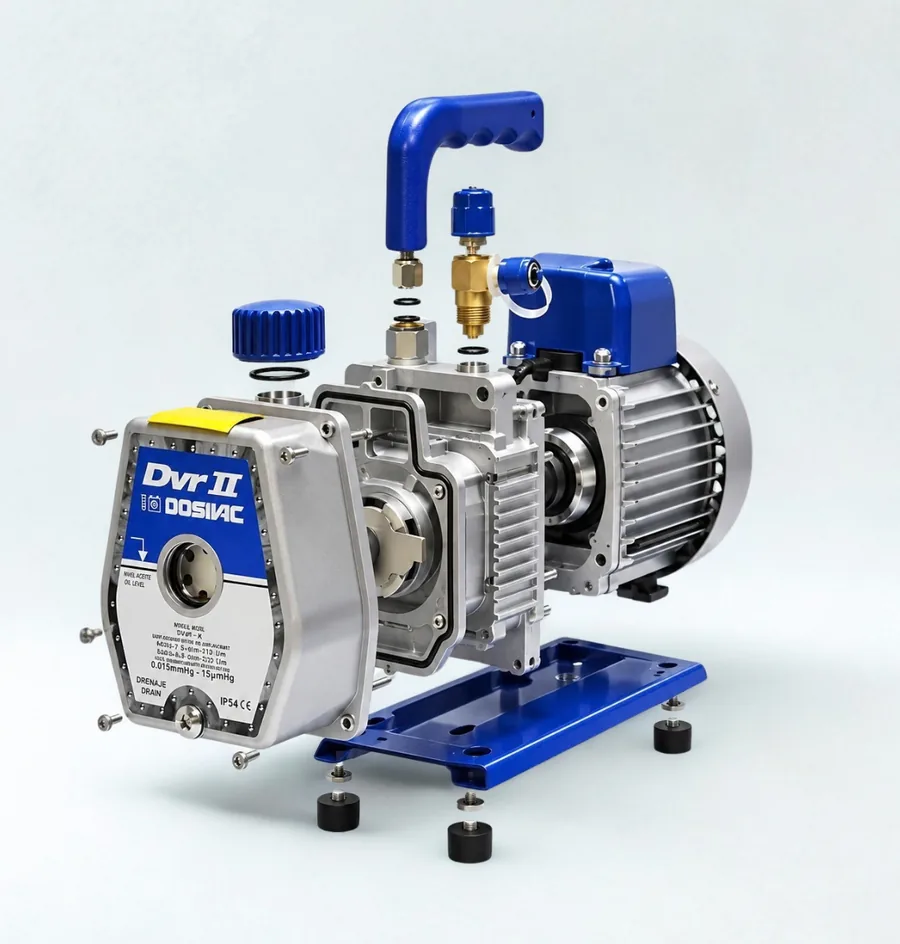
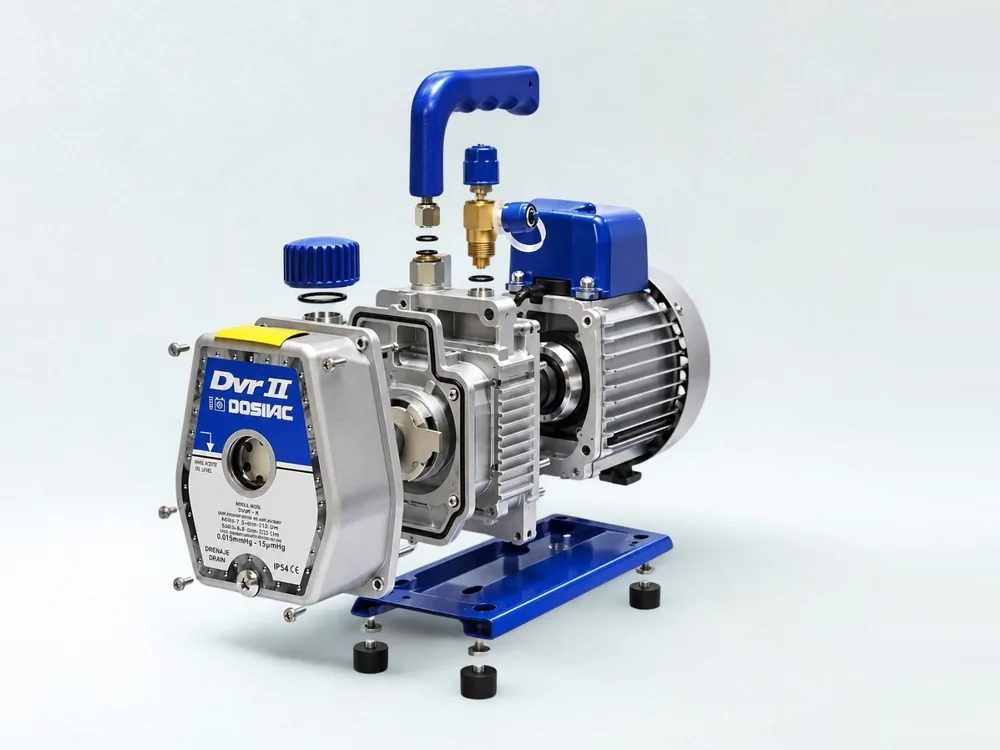
Foto de bomba desarmada a pantalla completa con fondo uniforme
Claude-Session: https://claude.ai/code/session_01Cr72STANt26wsz6noA3eqy

Changed region(s): [[0.0933, 0.0613, 0.8711, 0.9507]]

diff --git a/css/styles.css b/css/styles.css
@@ -246,15 +246,11 @@ p { margin: 0 0 1em; }
 .about__text p:not(.eyebrow) { color: var(--muted); font-size: 1.05rem; }
 .about__media {
   margin: 0;
-  background: linear-gradient(180deg, #f6f8fc, var(--ice));
   border-radius: var(--radius);
-  padding: 20px;
-  max-height: 520px;
-  display: flex;
-  justify-content: center;
   overflow: hidden;
+  box-shadow: var(--shadow);
 }
-.about__media img { max-height: 480px; width: auto; object-fit: contain; mix-blend-mode: multiply; }
+.about__media img { width: 100%; height: auto; }
 
 .values {
   display: grid;
@@ -492,8 +488,6 @@ p { margin: 0 0 1em; }
 
   .hero__inner { grid-template-columns: 1fr; gap: 40px; padding-top: 56px; padding-bottom: 88px; }
   .about, .shipping { grid-template-columns: 1fr; gap: 40px; }
-  .about__media { max-height: 420px; }
-  .about__media img { max-height: 380px; }
   .values { grid-template-columns: repeat(2, 1fr); margin-top: 56px; }
   .steps { grid-template-columns: 1fr; }
   .contact { grid-template-columns: 1fr; }

diff --git a/index.html b/index.html
@@ -131,7 +131,7 @@
           <p>Sabemos que una herramienta que falla es un trabajo que se frena. Por eso elegimos productos confiables, respetamos la garantía de fábrica y acompañamos a cada cliente para que su equipo rinda como tiene que rendir.</p>
         </div>
         <figure class="about__media">
-          <img src="img/bomba-interior.webp" alt="Vista interior ilustrativa de una bomba de vacío Dosivac DVR II" width="900" height="944" loading="lazy">
+          <img src="img/bomba-interior.webp" alt="Vista interior ilustrativa de una bomba de vacío Dosivac DVR II" width="1000" height="750" loading="lazy">
         </figure>
       </div>
 
